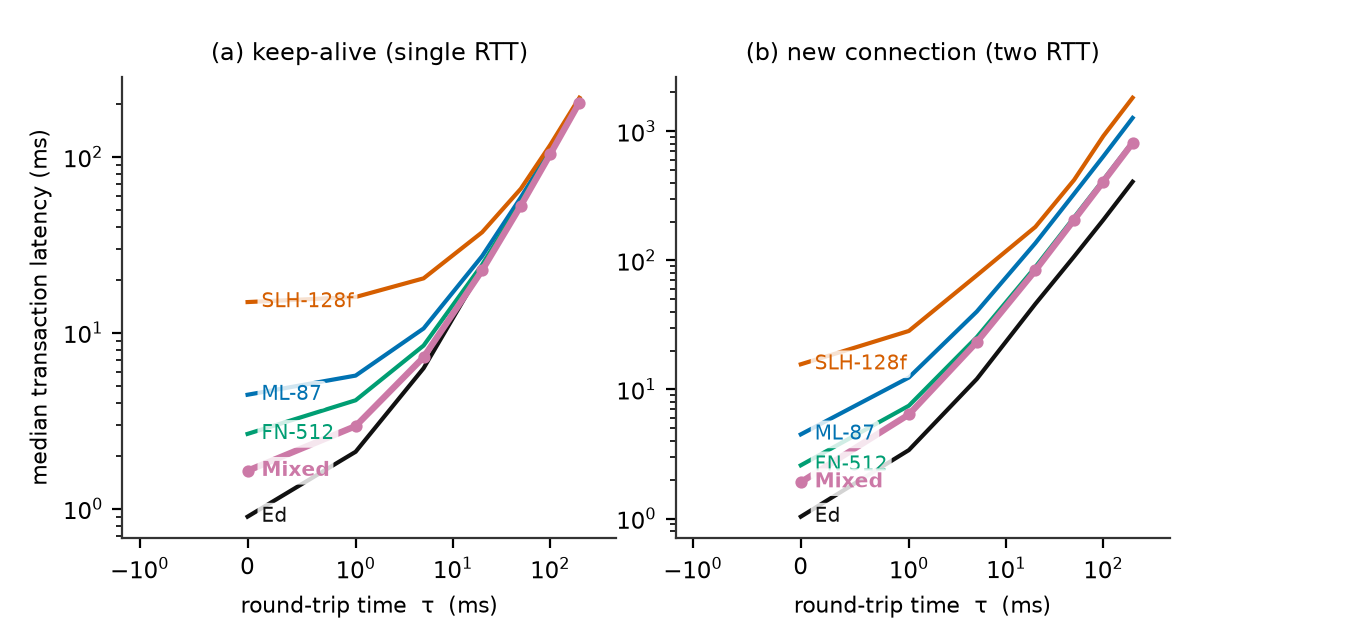
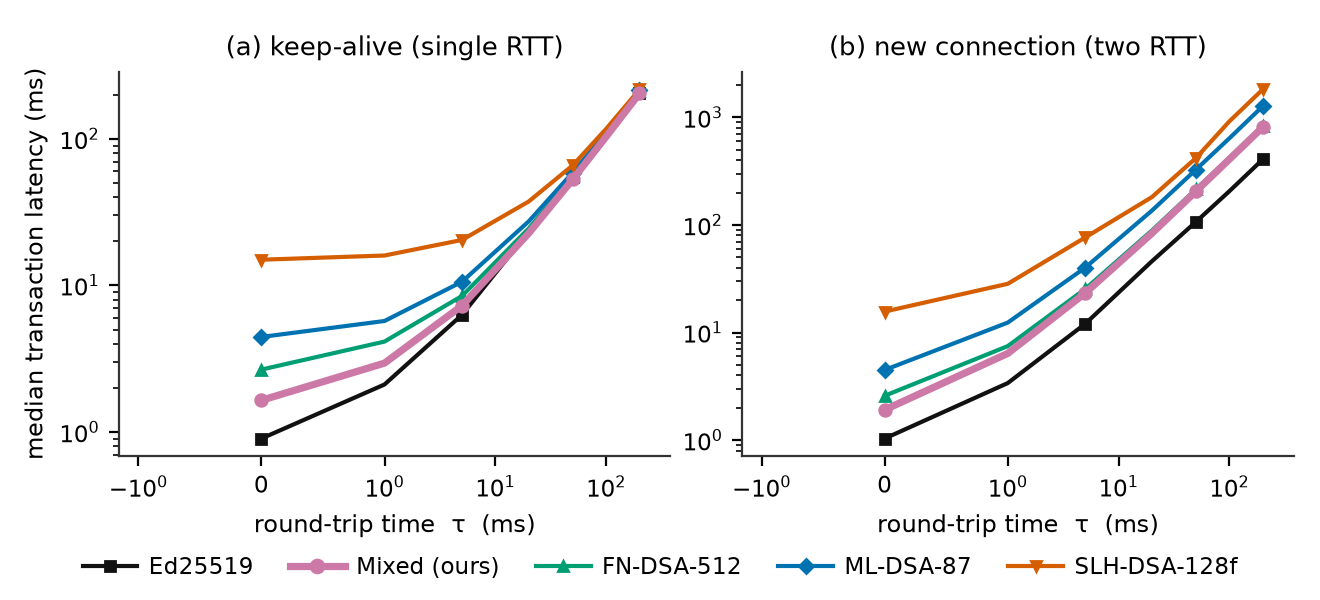
Redesign network and profile figures: external legends, focus encoding, log-scale loss axis; add redraw_final4

diff --git a/experiments/redraw_final4.py b/experiments/redraw_final4.py
@@ -1,0 +1,231 @@
+#!/usr/bin/env python3
+"""Final redraw of network figures (Fig.3-5) and deployment profiles (Fig.6).
+
+Rules (scientific-visualization):
+* no scheme text and no leader lines inside the plotting area;
+* one external, colour-vision-safe legend per figure (colour + marker + ls);
+* focus encoding: our Mixed profile is a heavy line with filled circles,
+  Ed25519 is the black classical reference, comparisons are thinner;
+* no background grid; Fig.4 uses a log y-axis so the SLH outlier no longer
+  compresses the practical candidates.
+"""
+import os, sys
+import numpy as np
+import pandas as pd
+import matplotlib.pyplot as plt
+
+HERE = os.path.dirname(os.path.abspath(__file__))
+sys.path.insert(0, HERE)
+import figstyle as fs
+fs.setup()
+
+NETAN = os.path.join(HERE, "netbed", "analysis")
+NETOUT = os.path.join(HERE, "netbed", "figs_v2")
+MICROOUT = os.path.join(HERE, "figures_v2")
+DATA = os.path.join(HERE, "data")
+for d in (NETOUT, MICROOUT):
+    os.makedirs(d, exist_ok=True)
+
+# network curves: profile -> (canon key, marker) ; order controls legend
+NET = [("ed25519", "s"), ("mix-mldsa87-fndsa512", "o"),
+       ("fndsa512", "^"), ("mldsa87", "D"), ("slhdsa128f", "v")]
+NETLAB = {"ed25519": "Ed25519", "mix-mldsa87-fndsa512": "Mixed (ours)",
+          "fndsa512": "FN-DSA-512", "mldsa87": "ML-DSA-87",
+          "slhdsa128f": "SLH-DSA-128f"}
+
+
+def style(ckey):
+    fam = fs.FAMILY[ckey]
+    col = fs.FAMILY_COLOR[fam]
+    focus = fam == "mix"
+    return dict(color=col, focus=focus,
+                lw=2.6 if focus else 1.5,
+                ls=("-") ,
+                z=6 if focus else 3)
+
+
+def bottom_legend(fig, pairs, ncol, bottom=0.20):
+    handles, labels = [], []
+    for line, lab in pairs:
+        handles.append(line)
+        labels.append(lab)
+    fig.legend(handles, labels, loc="lower center", ncol=ncol, fontsize=8.2,
+               frameon=False, bbox_to_anchor=(0.5, 0.0),
+               handlelength=2.4, handletextpad=0.5, columnspacing=1.6,
+               markerscale=1.1)
+
+
+# ----------------------------------------------------------------- Fig.3
+def fig3():
+    s = pd.read_csv(os.path.join(NETAN, "en1_summary.csv"))
+    rtts = sorted(s.rtt_ms.unique())
+    fig, axes = plt.subplots(1, 2, figsize=(6.6, 3.0), sharex=True)
+    pairs = []
+    seen = set()
+    for ax, mode, title in [(axes[0], "ka", "(a) keep-alive (single RTT)"),
+                            (axes[1], "new", "(b) new connection (two RTT)")]:
+        d = s[(s.n == 20) & (s["mode"] == mode)]
+        for prof, mk in NET:
+            ckey = fs.canon(prof)
+            g = d[d.profile == prof].sort_values("rtt_ms")
+            if g.empty:
+                continue
+            st = style(ckey)
+            (ln,) = ax.plot(g.rtt_ms, g.total_p50_us / 1e3,
+                            color=st["color"], lw=st["lw"], ls=st["ls"],
+                            marker=mk, ms=4.2 if st["focus"] else 3.4,
+                            markevery=2, zorder=st["z"])
+            if prof not in seen:
+                pairs.append((ln, NETLAB[prof]))
+                seen.add(prof)
+        ax.set_xscale("symlog", linthresh=1)
+        ax.set_yscale("log")
+        ax.set_xlabel("round-trip time  τ  (ms)", fontsize=8.6)
+        ax.set_title(title, fontsize=9.2)
+        ax.set_xlim(-1.5, rtts[-1] * 1.9)
+    axes[0].set_ylabel("median transaction latency (ms)", fontsize=8.6)
+    fig.subplots_adjust(left=0.09, right=0.98, top=0.88, bottom=0.24,
+                        wspace=0.13)
+    bottom_legend(fig, pairs, 5)
+    fig.savefig(os.path.join(NETOUT, "netfig1_latency_rtt.png"),
+                facecolor="white")
+    plt.close(fig)
+    print("wrote netfig1")
+
+
+# ----------------------------------------------------------------- Fig.4
+def fig4():
+    s = pd.read_csv(os.path.join(NETAN, "en2_loss.csv"))
+    d = s[(s.n == 20) & (s["mode"] == "new")]
+    losses = sorted(d.loss_pct.unique())
+    fig, axes = plt.subplots(1, 2, figsize=(6.6, 3.0), sharex=True)
+    pairs, seen = [], set()
+    for ax, col_, title in [(axes[0], "p50_us", "(a) median latency"),
+                            (axes[1], "p99_us", "(b) P99 tail latency")]:
+        for prof, mk in NET:
+            ckey = fs.canon(prof)
+            g = d[d.profile == prof].sort_values("loss_pct")
+            if g.empty:
+                continue
+            st = style(ckey)
+            (ln,) = ax.plot(g.loss_pct, g[col_] / 1e3,
+                            color=st["color"], lw=st["lw"], ls=st["ls"],
+                            marker=mk, ms=4.2 if st["focus"] else 3.4,
+                            zorder=st["z"])
+            if prof not in seen:
+                pairs.append((ln, NETLAB[prof]))
+                seen.add(prof)
+        ax.set_yscale("log")
+        ax.set_xlabel("independent Bernoulli loss  p  (%)", fontsize=8.6)
+        ax.set_title(title + ", RTT = 20 ms", fontsize=9.0)
+        ax.set_xlim(-0.3, losses[-1] * 1.5)
+    axes[0].set_ylabel("latency (ms)", fontsize=8.6)
+    fig.subplots_adjust(left=0.09, right=0.98, top=0.88, bottom=0.24,
+                        wspace=0.13)
+    bottom_legend(fig, pairs, 5)
+    fig.savefig(os.path.join(NETOUT, "netfig3_loss.png"), facecolor="white")
+    plt.close(fig)
+    print("wrote netfig3")
+
+
+# ----------------------------------------------------------------- Fig.5
+def fig5():
+    a = pd.read_csv(os.path.join(NETAN, "en3_throughput.csv"))
+    d = a[a.n == 20]
+    rtts = sorted(d.rtt_ms.unique())
+    fig, axes = plt.subplots(1, len(rtts), figsize=(6.6, 2.8), sharey=True)
+    pairs, seen = [], set()
+    for ax, rtt in zip(axes, rtts):
+        dd = d[d.rtt_ms == rtt]
+        for prof, mk in NET:
+            ckey = fs.canon(prof)
+            g = dd[dd.profile == prof].sort_values("conc")
+            if g.empty:
+                continue
+            st = style(ckey)
+            (ln,) = ax.plot(g.conc, g.rps, color=st["color"], lw=st["lw"],
+                            ls=st["ls"], marker=mk,
+                            ms=4.0 if st["focus"] else 3.2, markevery=2,
+                            zorder=st["z"])
+            if prof not in seen:
+                pairs.append((ln, NETLAB[prof]))
+                seen.add(prof)
+        ax.set_xlabel("concurrent clients  c", fontsize=8.6)
+        ax.set_title(f"RTT = {int(rtt)} ms" if rtt else "RTT ≈ 0",
+                     fontsize=9.0)
+        ax.set_xlim(0.8, dd.conc.max() * 1.18)
+    axes[0].set_ylabel("aggregate throughput (req/s)", fontsize=8.6)
+    fig.subplots_adjust(left=0.09, right=0.98, top=0.87, bottom=0.26,
+                        wspace=0.12)
+    bottom_legend(fig, pairs, 5)
+    fig.savefig(os.path.join(NETOUT, "netfig4_throughput.png"),
+                facecolor="white")
+    plt.close(fig)
+    print("wrote netfig4")
+
+
+# ----------------------------------------------------------------- Fig.6
+def fig6():
+    size = pd.read_csv(os.path.join(DATA, "e6_profiles_size.csv"))
+    ver = (pd.read_csv(os.path.join(DATA, "e6_profiles_verify.csv"))
+           .groupby(["profile", "n"])["ns"].median().reset_index())
+    order = ["all-ed", "all-mldsa44", "all-fndsa512", "hybrid-ed-mldsa44",
+             "hybrid-ed-fndsa512", "mixed-mldsa87-root-fn",
+             "mixed-slh128s-root-fn"]
+    rec = "mixed-mldsa87-root-fn"
+    lab = {"all-ed": "Ed25519", "all-mldsa44": "ML-DSA-44",
+           "all-fndsa512": "FN-DSA-512", "hybrid-ed-mldsa44": "Hyb Ed+ML44",
+           "hybrid-ed-fndsa512": "Hyb Ed+FN512",
+           "mixed-mldsa87-root-fn": "Mixed* (ours)",
+           "mixed-slh128s-root-fn": "Mixed-SLH"}
+    mk = {"all-ed": "s", "all-mldsa44": "D", "all-fndsa512": "^",
+          "hybrid-ed-mldsa44": "P", "hybrid-ed-fndsa512": "X",
+          "mixed-mldsa87-root-fn": "o", "mixed-slh128s-root-fn": "v"}
+    fig, (axa, axb) = plt.subplots(1, 2, figsize=(6.6, 3.2))
+    pairs = []
+    for p in order:
+        focus = p == rec
+        col = fs.color_of(p)
+        ds = size[size.profile == p].sort_values("n")
+        (l1,) = axa.plot(ds.n, ds.size_bytes / 1024, color=col,
+                         lw=2.7 if focus else 1.3,
+                         marker=mk[p], ms=4.6 if focus else 3.0,
+                         markevery=2, zorder=6 if focus else 2)
+        dv = ver[ver.profile == p].sort_values("n")
+        axb.plot(dv.n, dv.ns / 1000, color=col,
+                 lw=2.7 if focus else 1.3, marker=mk[p],
+                 ms=4.6 if focus else 3.0, markevery=2,
+                 zorder=6 if focus else 2)
+        pairs.append((l1, lab[p]))
+    for b in (4, 8):
+        axa.axhline(b, color="#9a9a9a", ls=":", lw=1.0, zorder=1)
+    axa.text(12.0, 4.45, "4 KiB budget", fontsize=7, color="#808080")
+    axa.text(12.0, 8.5, "8 KiB", fontsize=7, color="#808080")
+    axa.set_yscale("log")
+    axa.set_xlim(0, 24)
+    axa.set_ylim(0.6, 120)
+    axa.set_title("(a) sealed token size vs depth", fontsize=9.6)
+    axa.set_xlabel("attenuation depth n", fontsize=8.6)
+    axa.set_ylabel("sealed token size (KiB)", fontsize=8.6)
+    axb.set_xlim(0, 24)
+    axb.set_ylim(-60, 1950)
+    axb.set_title("(b) verification latency vs depth (AVX2)", fontsize=9.6)
+    axb.set_xlabel("attenuation depth n", fontsize=8.6)
+    axb.set_ylabel("full-chain verification (µs)", fontsize=8.6)
+    fig.subplots_adjust(left=0.09, right=0.98, top=0.90, bottom=0.26,
+                        wspace=0.16)
+    handles = [p[0] for p in pairs]
+    labels = [p[1] for p in pairs]
+    fig.legend(handles, labels, loc="lower center", ncol=4, fontsize=7.8,
+               frameon=False, bbox_to_anchor=(0.5, 0.0),
+               handlelength=2.0, handletextpad=0.4, columnspacing=1.2)
+    fig.savefig(os.path.join(MICROOUT, "profiles.png"), facecolor="white")
+    plt.close(fig)
+    print("wrote profiles")
+
+
+fig3()
+fig4()
+fig5()
+fig6()
+print("done")
